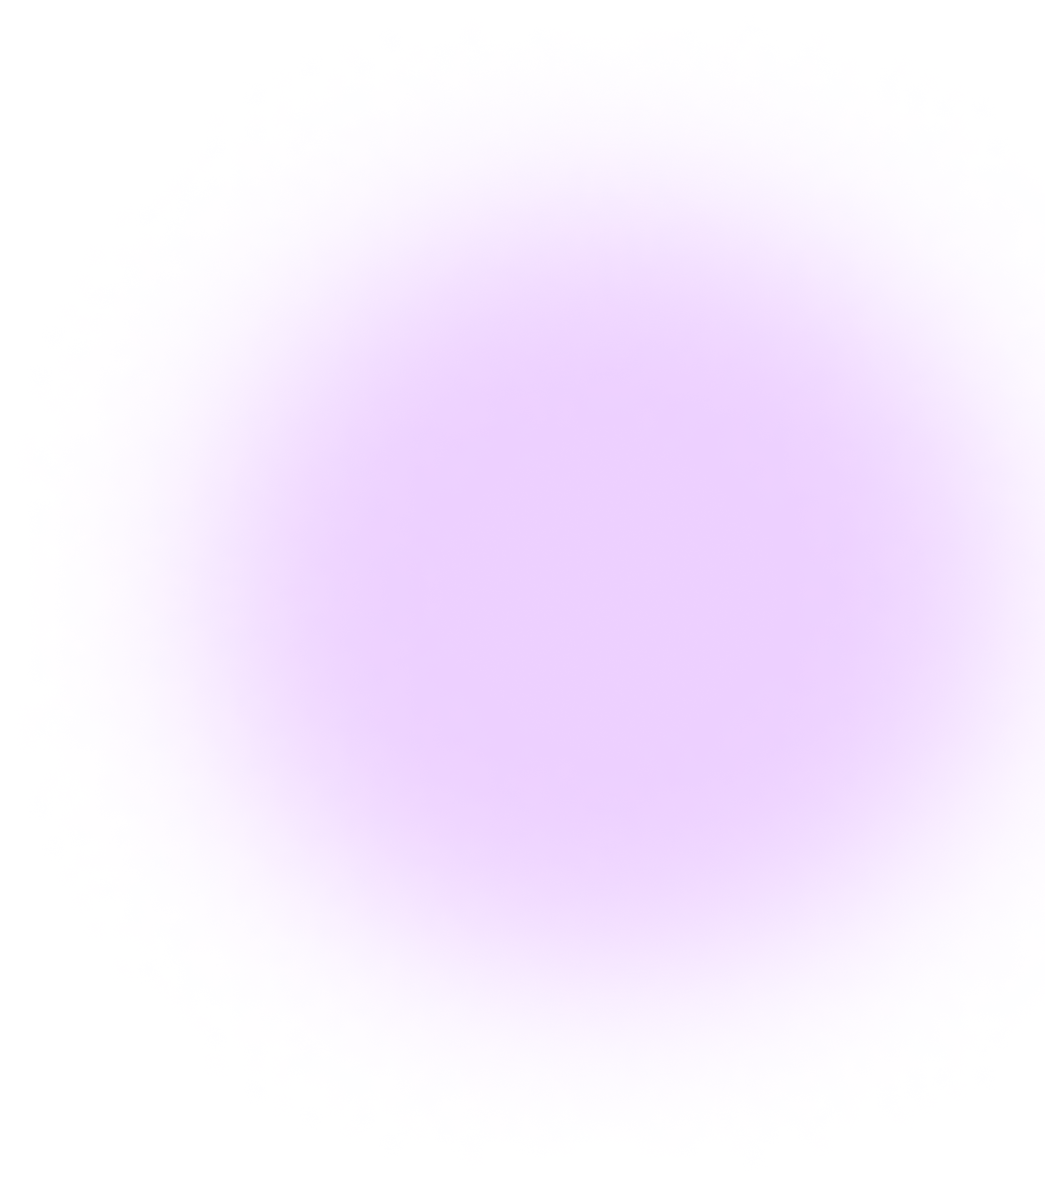
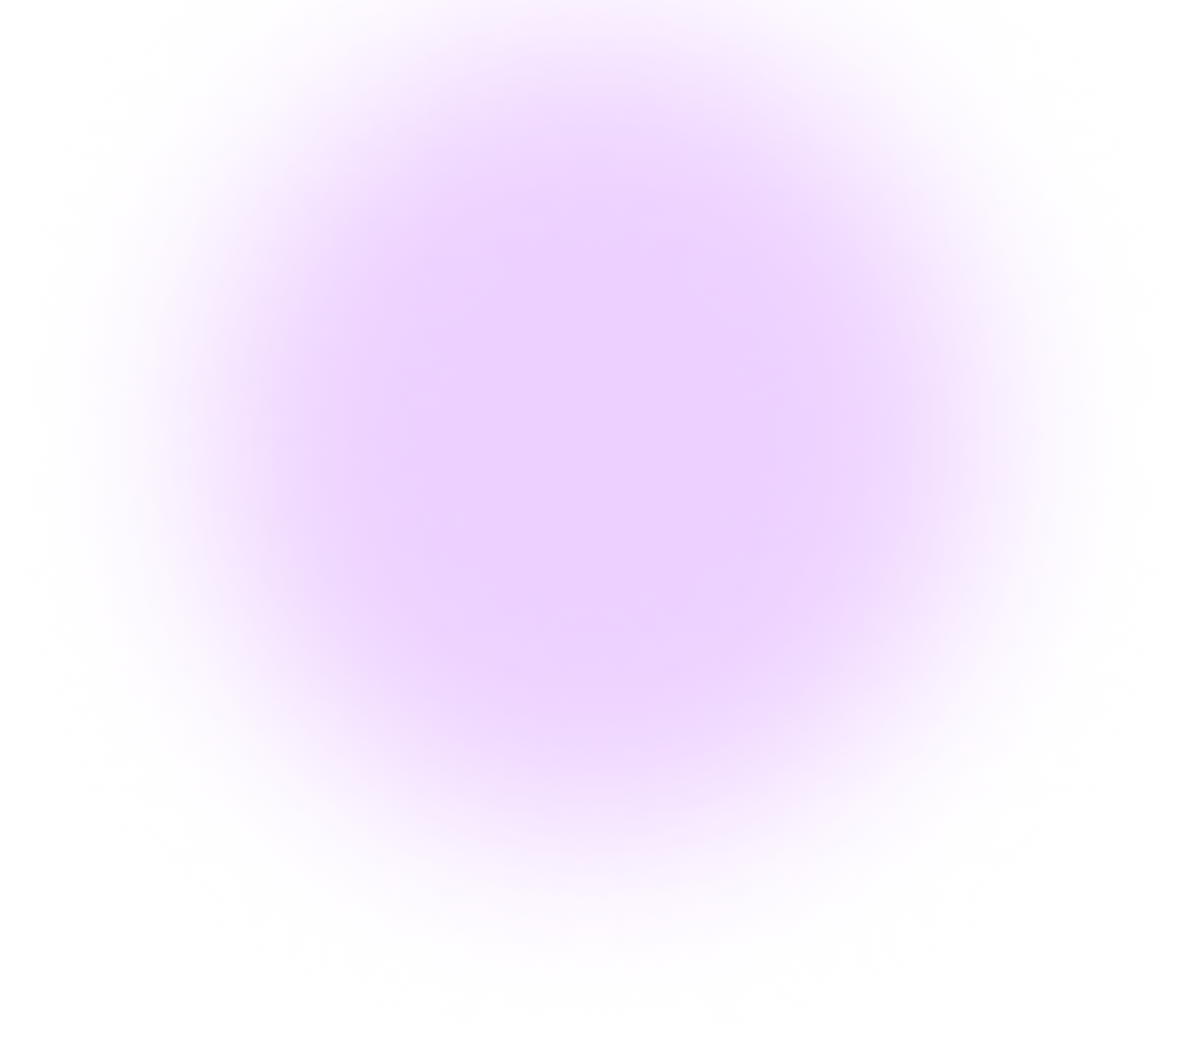
:art: Profile pix
Update profile pix layout

Changed region(s): [[0.2756, 0.0306, 0.6124, 0.245], [0.7656, 0.3981, 0.9493, 0.7043]]

diff --git a/src/Components/Intro/Intro.jsx b/src/Components/Intro/Intro.jsx
@@ -1,7 +1,7 @@
 import React, { useContext } from "react";
 import "./Intro.css";
 import Vector1 from "../../img/Vector1.png";
-import Vector2 from "../../img/Vector2.png";
+import purpleblur2 from '../../img/purpleblur2.png';
 import anny1 from "../../img/anny1.png";
 import glassesimoji from "../../img/glassesimoji.png";
 import thumbup from "../../img/thumbup.png";
@@ -27,8 +27,8 @@ const Intro = () => {
       <div className='i-left'>
         <div className='i-name'>
           {/* yahan change hy darkmode ka */}
-          <span style={{ color: darkMode ? 'white' : '' }}>Hy! I Am</span>
-          <span>Anny Udo</span>
+          <span style={{ color: darkMode ? 'white' : '' }}>Hi! I Am</span>
+          <span>Anny</span>
           <span>
             Frontend Developer with high level of experience in web designing
             and development, producting the Quality work
@@ -53,7 +53,7 @@ const Intro = () => {
       {/* right image side */}
       <div className='i-right'>
         <img src={Vector1} alt='' />
-        <img src={Vector2} alt='' />
+        <img src={purpleblur2} alt='' />
         <img className='intro-img' src={anny1} alt='' />
         {/* animation */}
         <motion.img

diff --git a/src/Components/Intro/Intro.css b/src/Components/Intro/Intro.css
@@ -69,7 +69,9 @@
 }
 .i-right > :nth-child(3) {
   transform: scale(1.4);
-  left: 28%;
+  /* left: 28%; */
+  left: 22%;
+  top: -5%;
 }
 .i-right > :nth-child(4) {
   transform: scale(0.62);
@@ -79,14 +81,14 @@
   padding: 0;
 }
 
-.intro-img{
+.intro-img {
   width: 300px;
   height: 350px;
   /* object-fit: cover; */
   /* border-radius: 50%; */
   border-bottom-right-radius: 60% 30%;
-  
-  -webkit-mask-image:
+
+  /* -webkit-mask-image:
   
     -webkit-gradient(
       linear,
@@ -98,8 +100,7 @@
       color-stop(0.65, rgba(0, 0, 0, 1)),
       color-stop(0.85, rgba(0, 0, 0, 0.6)),
       color-stop(1, rgba(0, 0, 0, 0))
-    );
-    
+    ); */
 }
 
 /* #n1 {
@@ -139,8 +140,18 @@
   .i-right .blur {
     display: none;
   }
-  .floating-div:nth-of-type(1){
+  .floating-div:nth-of-type(1) {
     /* display: none; */
-    top: -7rem !important;;
+    top: -7rem !important;
   }
+
+  .i-right > :nth-child(2) {
+    display: none;
+  }
+
+  .i-right > :nth-child(3) {
+  
+  left: 28%;
+  
+}
 }
